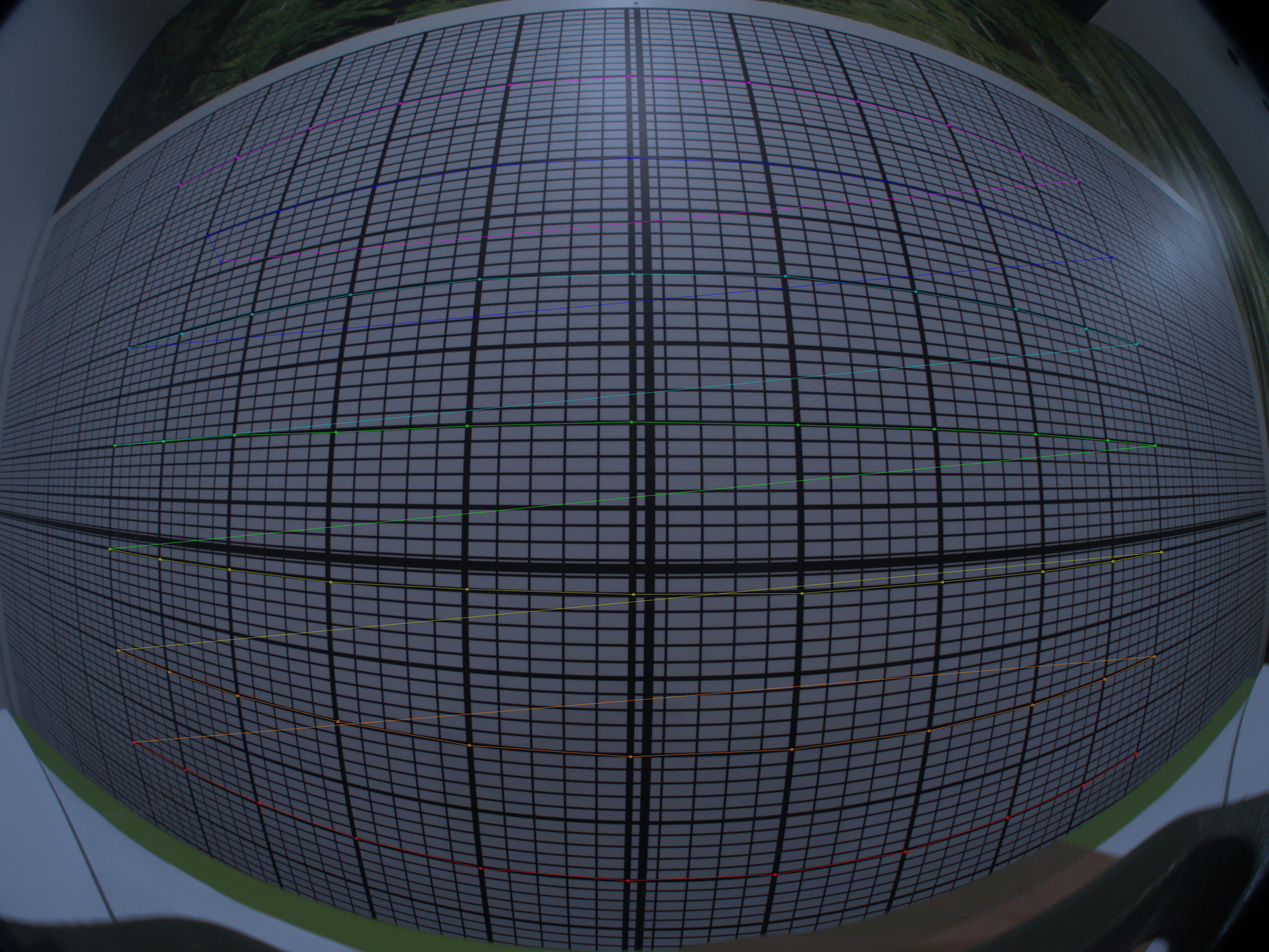
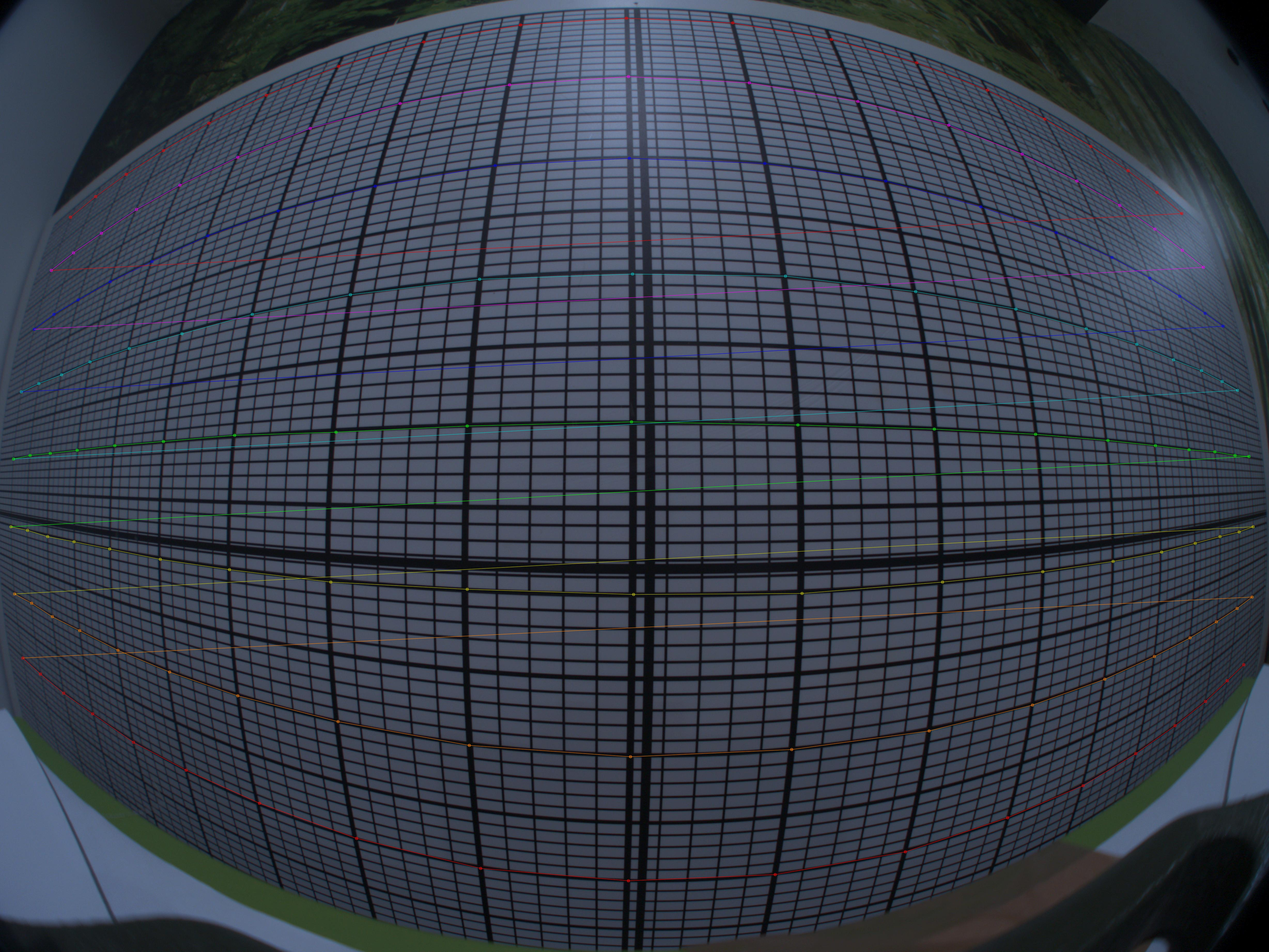
added additional hand features for corners

diff --git a/CorrectImageLensDistortion.py b/CorrectImageLensDistortion.py
@@ -59,7 +59,7 @@ def calibrationCalculation(xCorners,yCorners,img):
 	ret = True;
 	corners = np.zeros((xCorners*yCorners,1,2), np.float32)
 
-	lines = [line.rstrip('\n') for line in open('handmadefeatures.txt')]
+	lines = [line.rstrip('\n') for line in open('handmadefeatures_v2.txt')]
 
 	cornerCount=0;
 	for line in lines:
@@ -92,21 +92,10 @@ def main():
 	img = cv2.imread("fisheye.jpg")
 	w  = img.shape[1]
 	h = img.shape[0]
-	xCorners =11;
-	yCorners=7;
+	xCorners =19;
+	yCorners=8;
 	k1, k2, p1, p2, k3, fx, fy, camCenterX,camCenterY = calibrationCalculation(xCorners,yCorners,img)
 
-	# k1 = -0.56221192
-	# k2 = 0.80029104
-	# p1 = -0.02754566
-	# p2 = 0.02465937
-	# k3 = -3.19925385
-
-	# camCenterX = w/2.0 
-	# camCenterY = h/2.0
-
-	# fx = 423.54421997 
-	# fy = 391.90820312
 	img = cv2.imread("fisheye.jpg")
 
 	distortionCorrect(k1,k2,p1,p2,k3,fx,fy,camCenterX,camCenterY,img)
